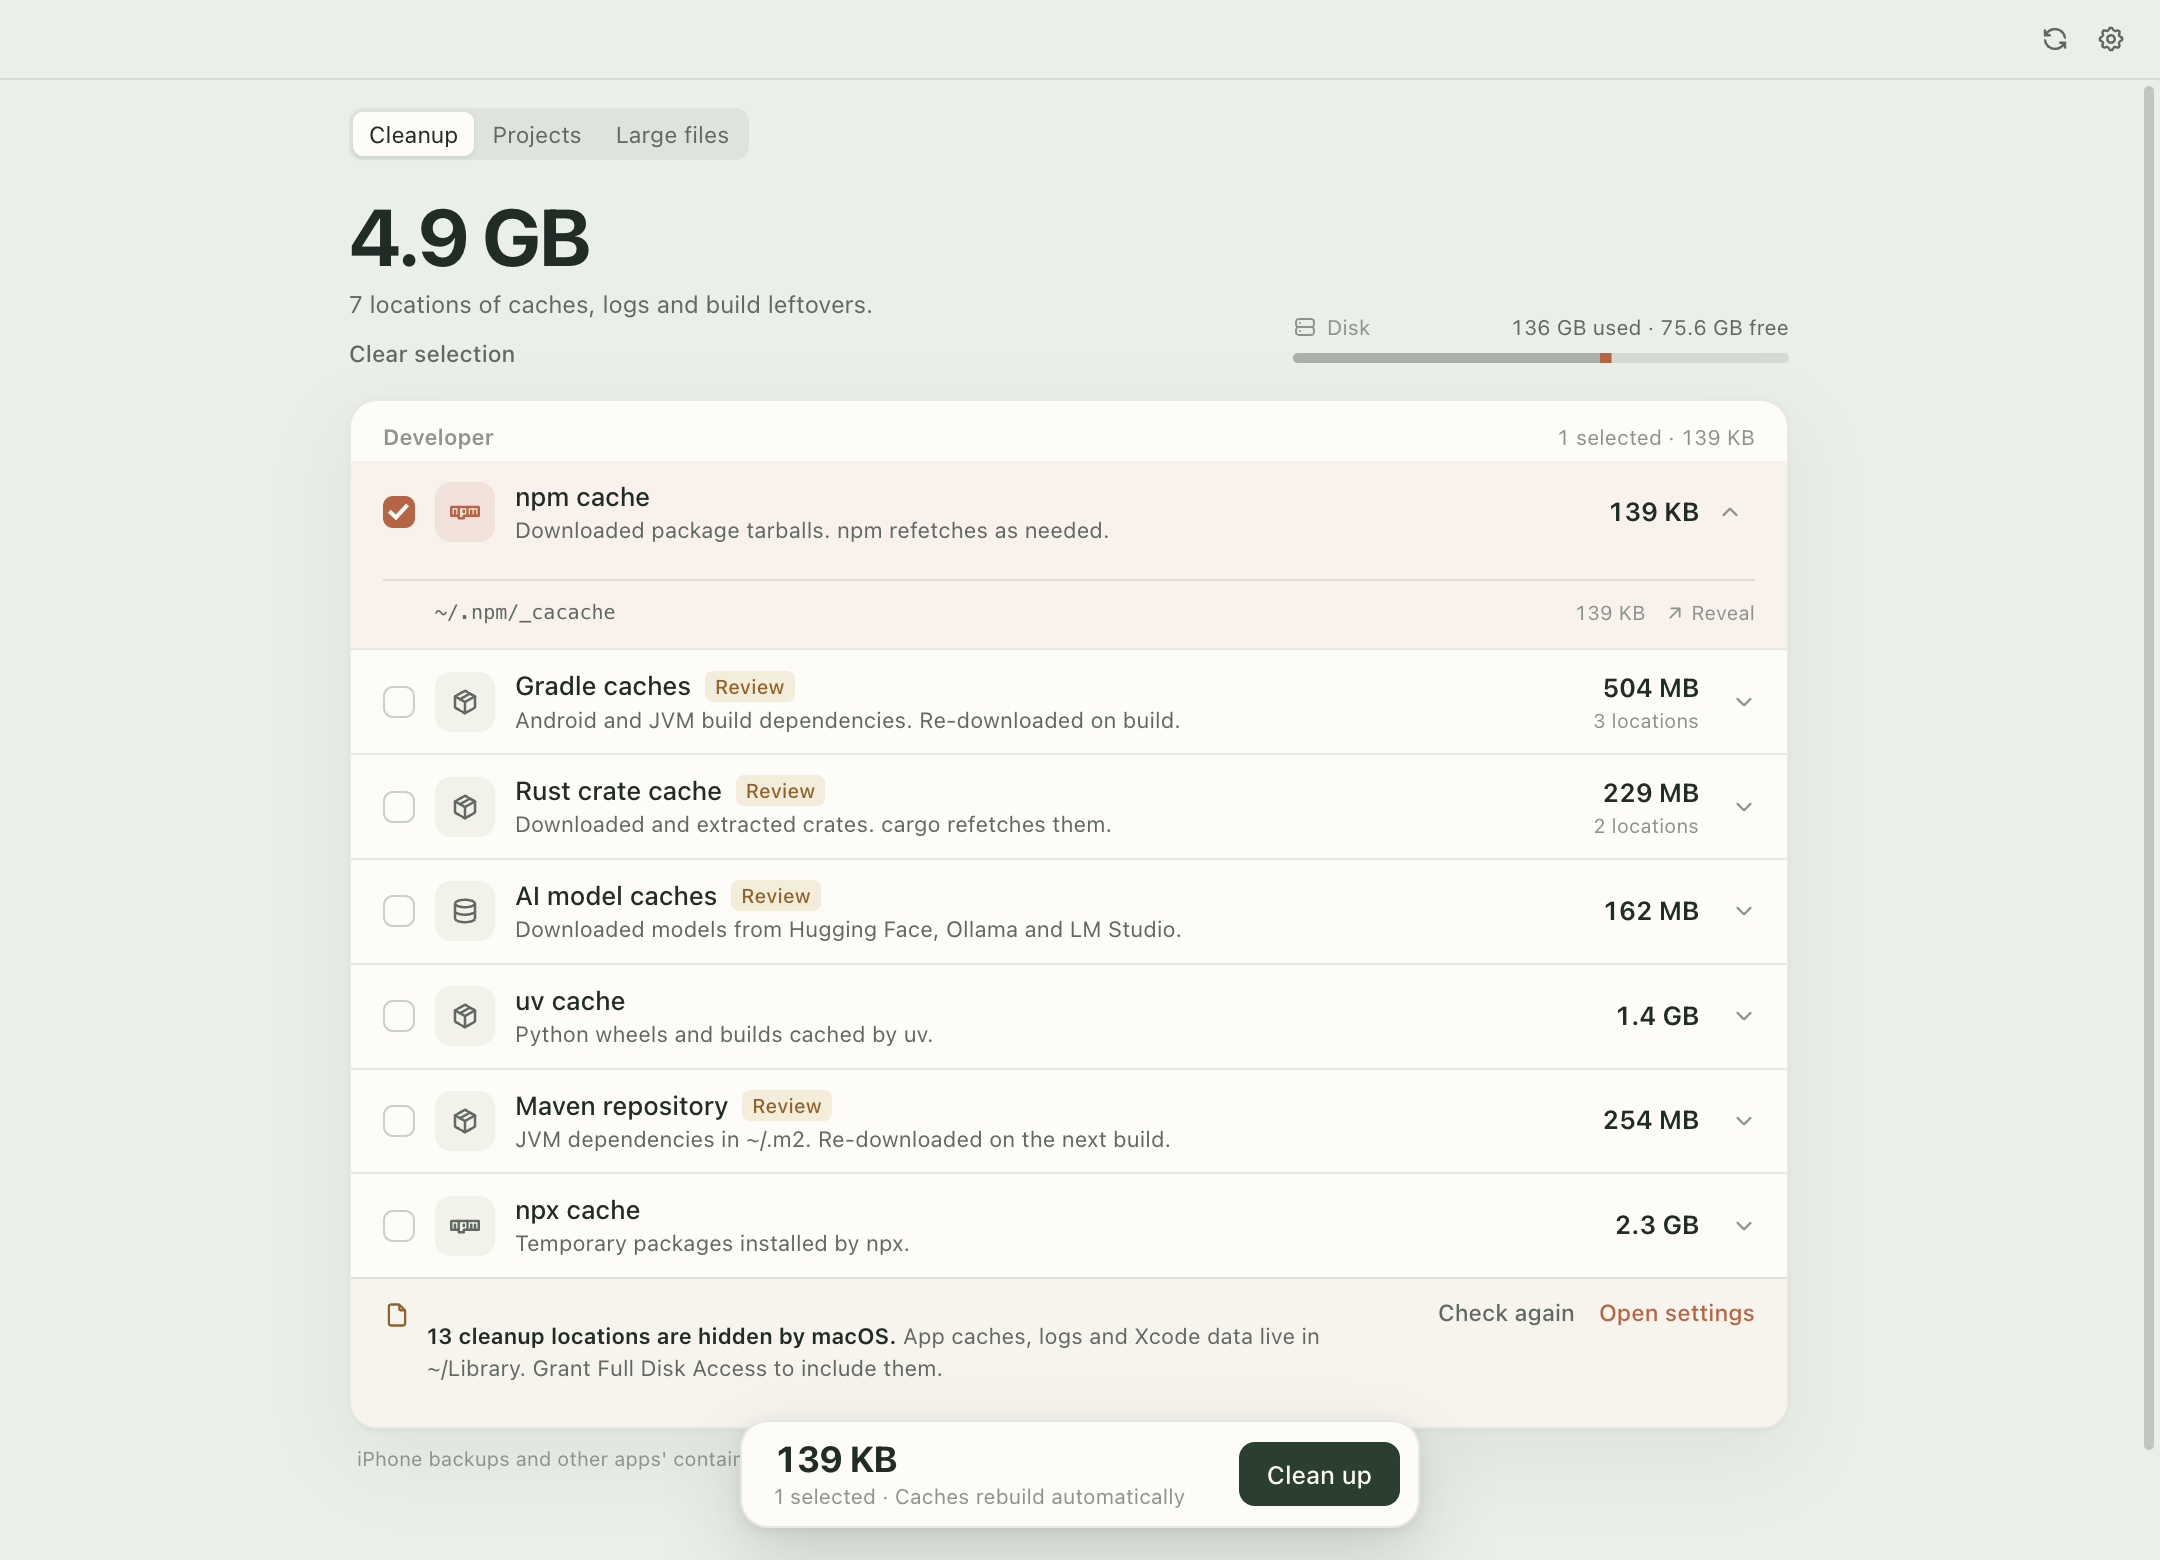
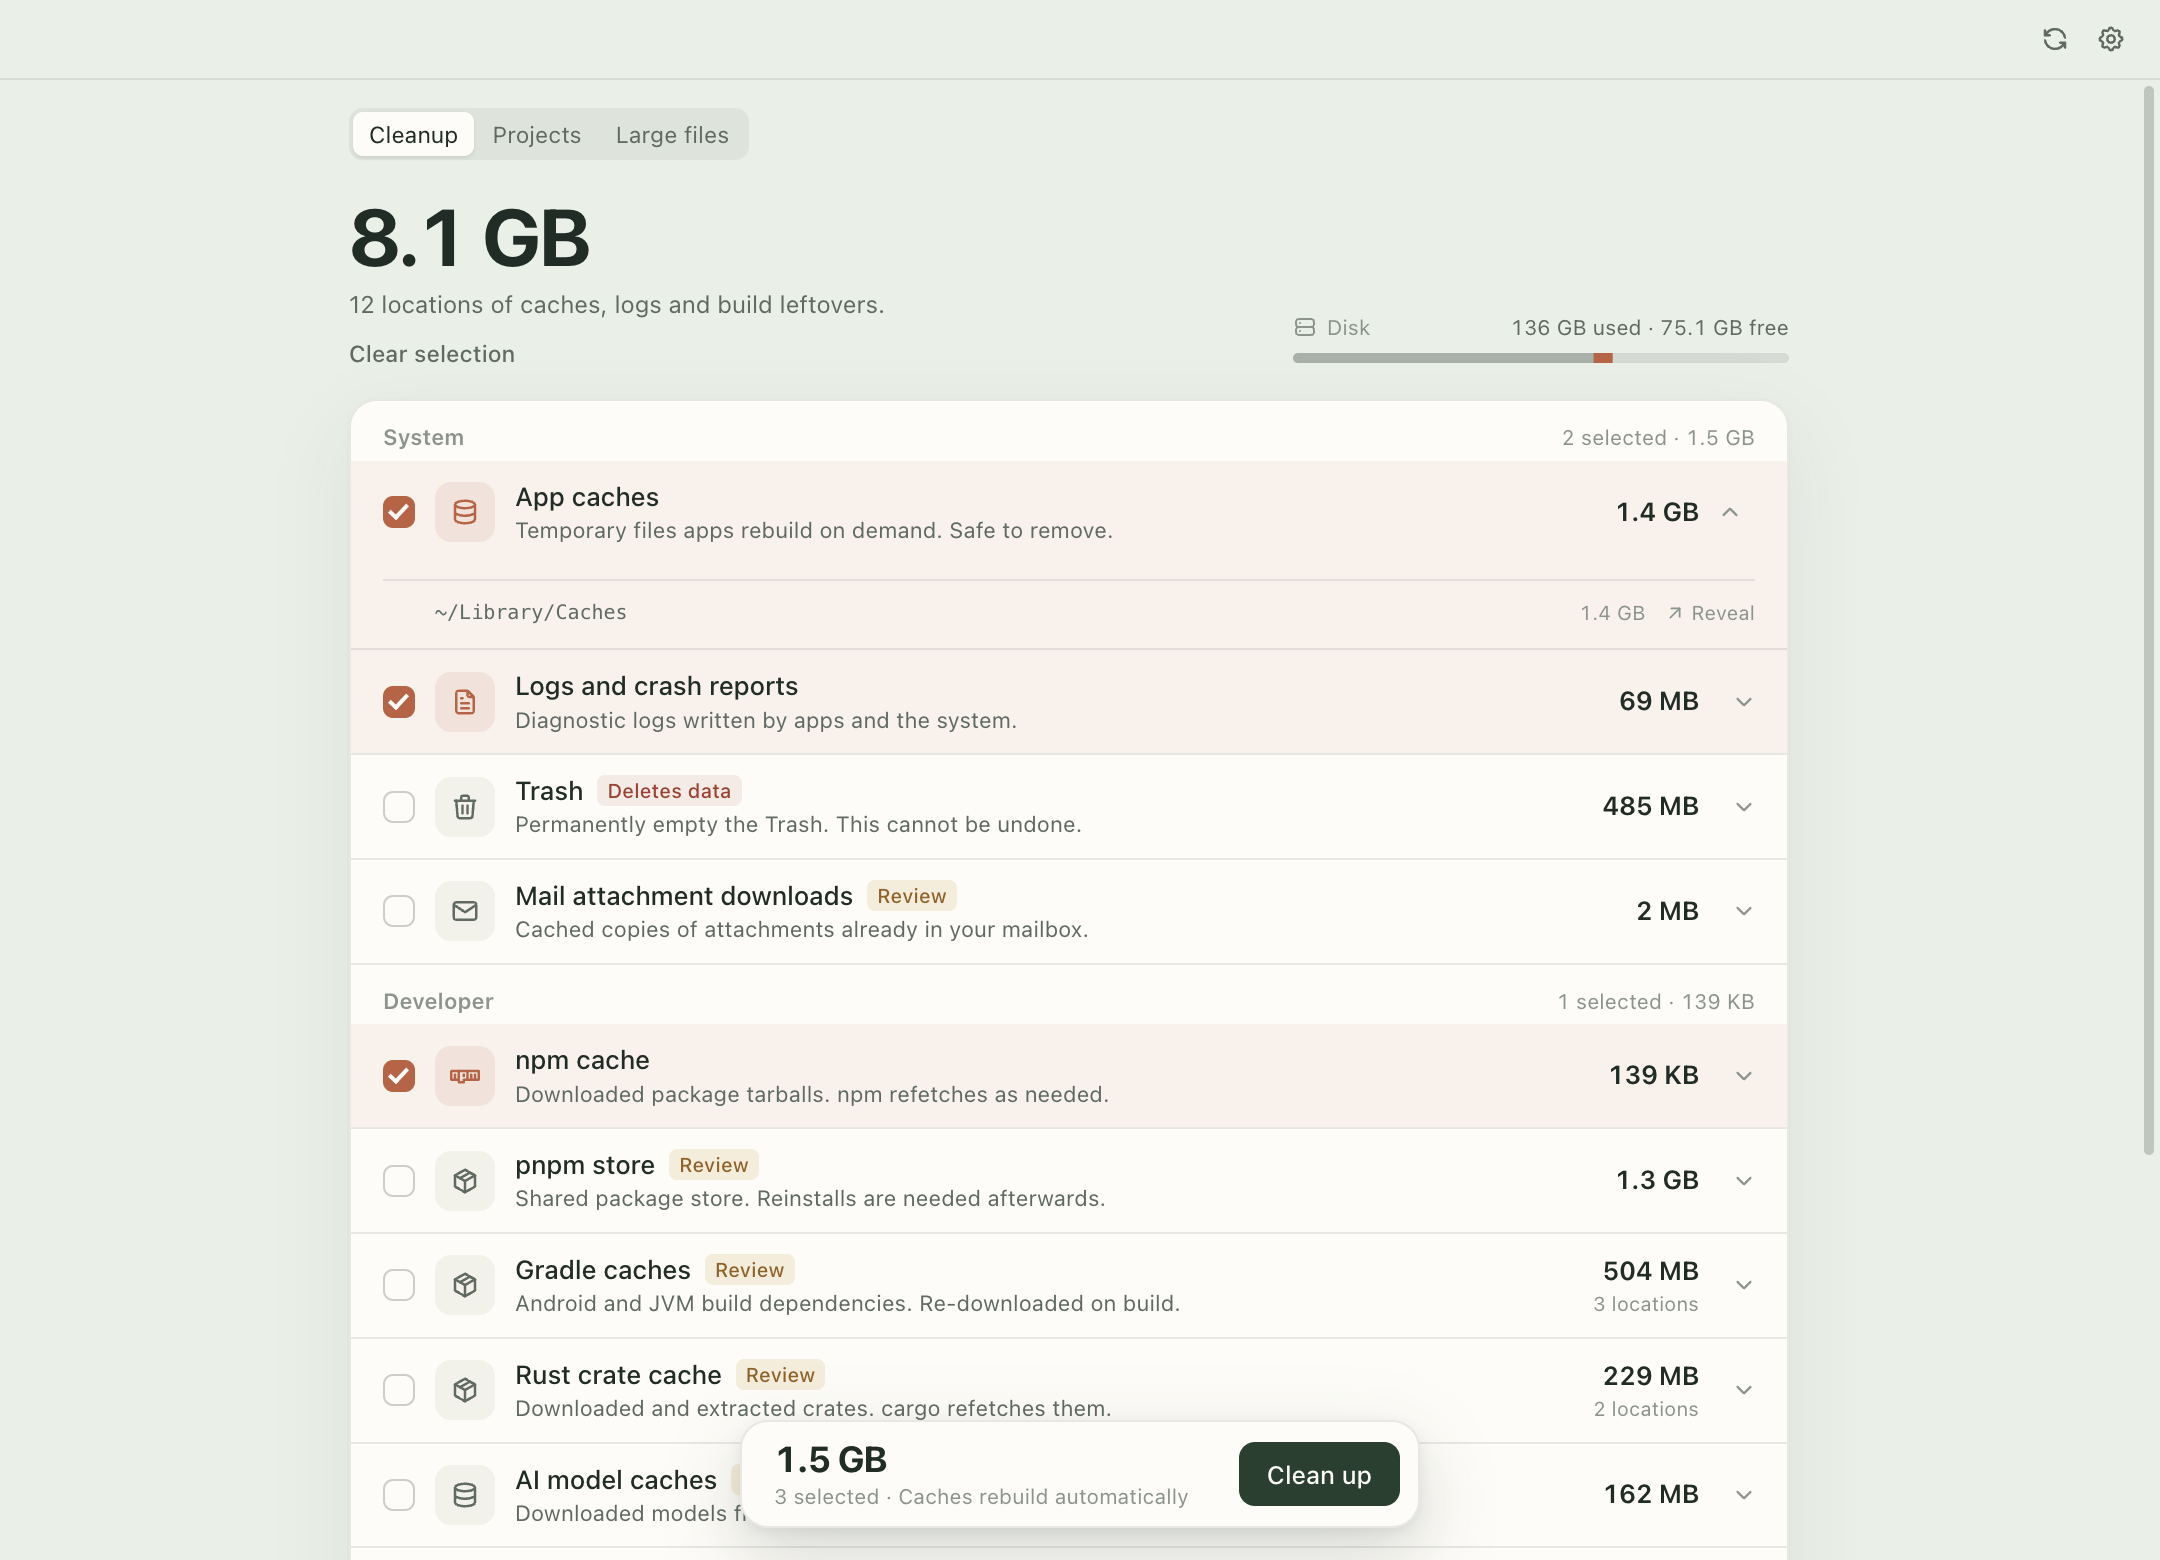
Refresh the feature tour with Full Disk Access screenshots

diff --git a/docs/features.vi.md b/docs/features.vi.md
@@ -2,7 +2,7 @@
 
 CacheNook được xây quanh một ý tưởng: công cụ dọn dẹp phải hiểu các project trên ổ, không chỉ biết cache hệ thống.
 
-Ảnh chụp trong cửa sổ 1080 x 780. Máy demo chưa cấp Full Disk Access nên các mục trong `~/Library` bị ẩn ở ảnh Cleanup. Cấp quyền để thấy app caches, Xcode, Mail downloads và iPhone backups.
+Ảnh chụp từ cùng một bản app ở các trạng thái quyền khác nhau. Ảnh Cleanup hiện đầy đủ nhóm System khi đã cấp Full Disk Access. Ảnh Large files được chụp khi chưa cấp quyền Desktop, Documents và Downloads để không lộ file cá nhân; các thư mục đó bị bỏ qua, không phải mất.
 
 ## Dọn dẹp
 
@@ -12,7 +12,7 @@ CacheNook được xây quanh một ý tưởng: công cụ dọn dẹp phải h
 - Mỗi dòng có checkbox, nhãn rủi ro và dung lượng chính xác.
 - `Safe` là mục tự tạo lại được. `Review` là mục nên xem trước.
 - Footer chỉ hiện khi có mục được chọn.
-- Ghi chú Full Disk Access ở cuối danh sách chỉ là lối tắt, không phải lỗi.
+- Cache hệ thống chỉ hiện sau khi cấp Full Disk Access.
 
 ## Chi tiết target
 
@@ -46,6 +46,7 @@ Các file trên ngưỡng, ngoài `~/Library`, `node_modules`, `.git` và app bu
 - `Reveal` mở file trong Finder.
 - Xoá sẽ chuyển vào Thùng rác, vẫn khôi phục được.
 - Ngưỡng chỉnh trong Cài đặt.
+- Ảnh này chụp khi chưa cấp quyền Desktop, Documents, Downloads. Các thư mục đó bị bỏ qua, không phải mất.
 
 ## Cài đặt
 

diff --git a/docs/features.md b/docs/features.md
@@ -2,7 +2,7 @@
 
 CacheNook is built around one idea: a cleanup tool should understand the projects on your disk, not just the system caches Apple already knows about.
 
-Screenshots were taken in a 1080 x 780 window. The demo Mac did not have Full Disk Access, so targets inside `~/Library` are hidden in the cleanup screenshots. Grant Full Disk Access to show app caches, Xcode data, Mail downloads and iOS backups.
+Screenshots come from the same build in different permission states. Cleanup shows the full System group with Full Disk Access. The large-file view is shown without access to Desktop, Documents and Downloads so personal files stay out of the docs. Grant access to include them.
 
 ## Cleanup
 
@@ -12,7 +12,7 @@ Screenshots were taken in a 1080 x 780 window. The demo Mac did not have Full Di
 - Each row has a checkbox, a risk label and an exact size.
 - `Safe` items are rebuilt by the app. `Review` items contain data you may want to inspect first.
 - The footer only appears when something is selected.
-- The note at the bottom is the Full Disk Access shortcut, not an error.
+- System caches appear only after Full Disk Access is granted.
 
 ## Target details
 
@@ -46,6 +46,7 @@ Files above the configured threshold, outside `~/Library`, `node_modules`, `.git
 - `Reveal` opens the file in Finder.
 - Removal moves files to the Trash, so they stay recoverable.
 - The threshold is configurable from Settings.
+- This screenshot is taken without access to Desktop, Documents and Downloads. Those folders are skipped, not missing.
 
 ## Settings
 
